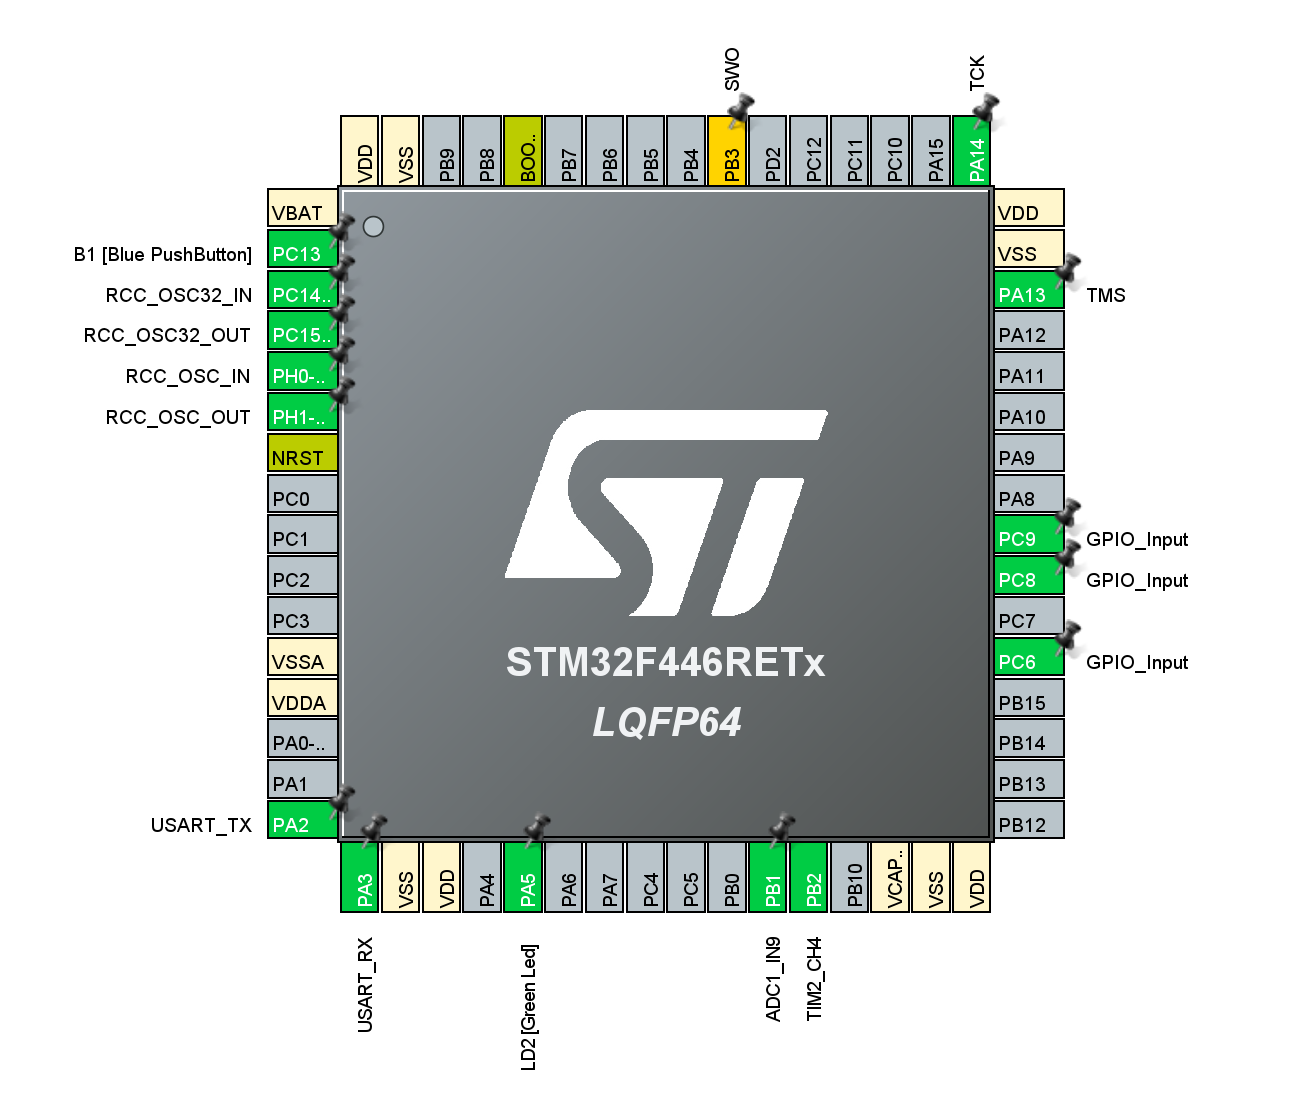
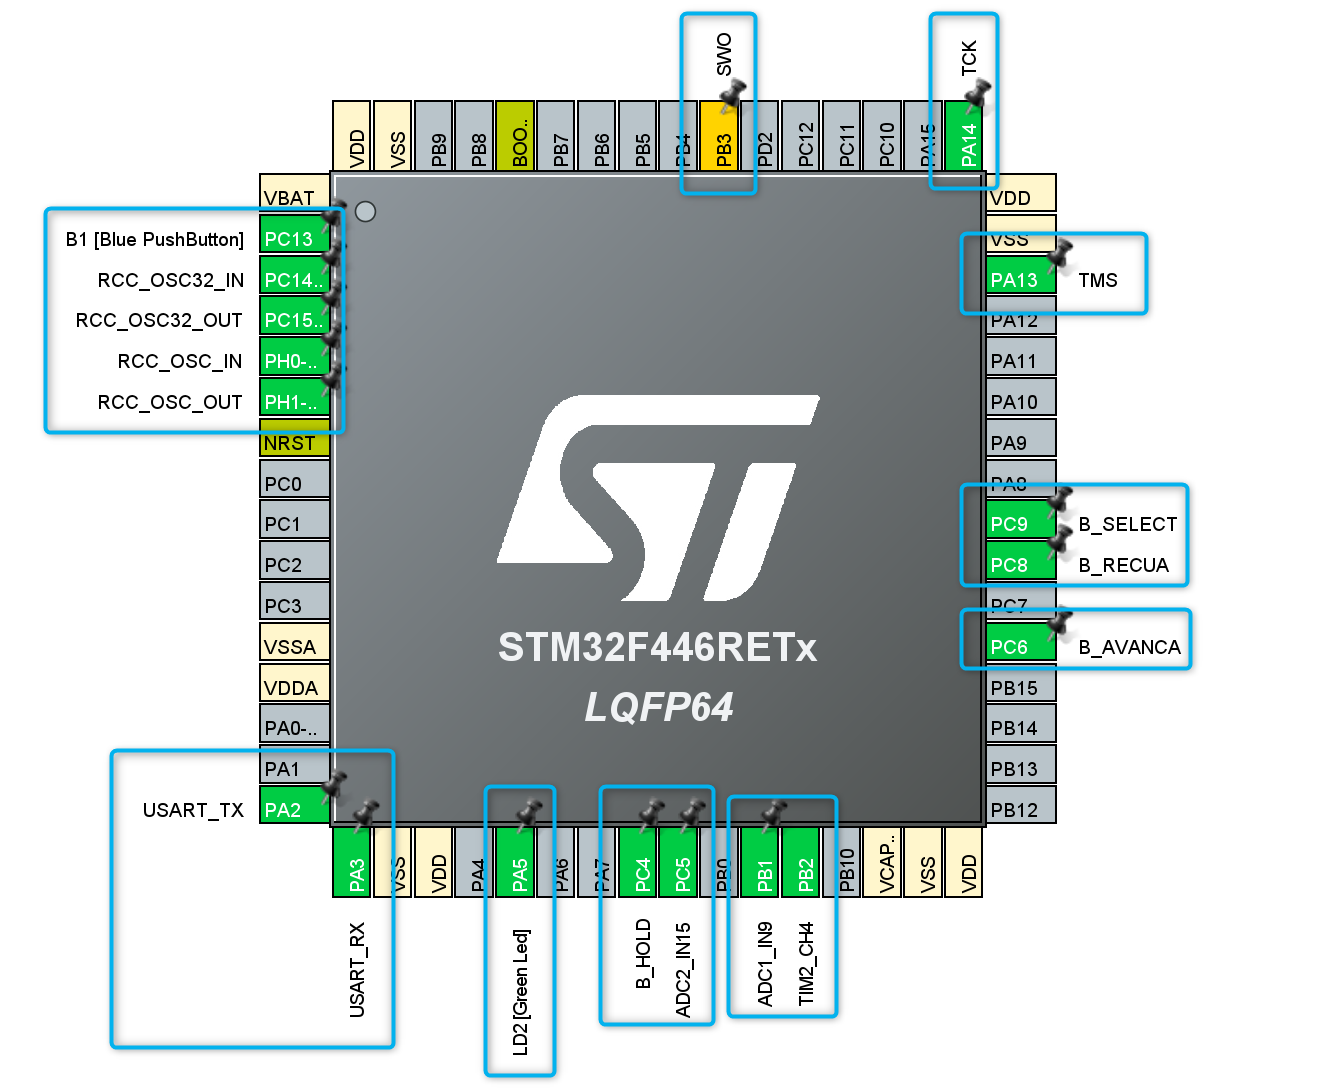
Atualização de Documentação do Projeto

Changed region(s): [[0.0309, 0.0, 0.9259, 0.9963], [0.3704, 0.3425, 0.6481, 0.685]]

diff --git a/Core/Src/readme.md b/Core/Src/readme.md
@@ -1,0 +1,134 @@
+### Sumário
+**[Considerações sobre os arquivos do Código Fonte](# Considerações sobre os arquivos do Código Fonte)**<br>
+**[Configuração do CubeMX](# Configuração do CubeMX)**<br>
+**[Constantes, variáveis Globais e Tipos Importantes](# Constantes, variáveis Globais e Tipos Importantes)**<br>
+**[Funções criadas do projeto](# Funções criadas do projeto)**<br>
+**[Funções criadas do projeto (todas no main.c)](# Funções criadas do projeto (todas no main.c))**<br>
+
+# Considerações sobre os arquivos do Código Fonte
+
+A seguir, falamos de algumas considerações importantes sobre os arquivos *.h* e *.c* que são importantes para o correto funcionamento do projeto.  
+
+## Bibliotecas Importantes
+
+Para o projeto, foram utilizadas as seguintes bibliotecas (já incluídas no código do GitHub):
+
+| ** Biblioteca **        | ** Utilização **                                              |
+| :---------------------: | :-----------------------------------------------------------: |
+| **fonts.h**             | Biblioteca de fontes para exibição de gráficos no display TFT |
+| **tft.h**               | Biblioteca para escrita de valores no display TFT             |
+| **user_setting.h**      | Biblioteca para escrita de valores no display TFT             |
+| **functions.h**         | Biblioteca para escrita de valores no display TFT             |
+| **arm_math.h**          | Para geração de séries de Fourier para análise de frequência  |
+| **arm_const_structs.h** | Para geração de séries de Fourier para análise de frequência  |
+| **math.h**              | Será necessário para trabalhar com valores numéricos          |
+| **<string.h>**          | Biblioteca para trabalhar com string                          |
+
+## Folhas Importantes
+
+Além disso, necessário também além das bibliotecas acima, os seguintes arquivos em *c* no projeto (eles já estão no projeto do Git, porém importante mencionar que precisam estar lá).
+
+| ** Arquivo**            | ** Utilização **                                                                                                             |
+| :---------------------: | :--------------------------------------------------------------------------------------------------------------------------: |
+| **fonts.c**             | Arquivo de fontes para exibição de gráficos no display TFT                                                                   |
+| **tft.c**               | Arquivo para escrita de valores no display TFT                                                                               |
+| **imagens.c**           | Arquivo que contém as imagens que serão exibidas na tela do Osciloscopio para referencia dos eixos                           |
+| **arm_fft_bin_data.c**  | Para geração de séries de Fourier para análise de frequência. Aqui fica o vetor que carrega as amostrar para exibição do FFT |
+
+# Configuração do CubeMX
+
+A configuração de pinos foi feita toda via CubeMX:
+
+![Configuração do CubeMX](Imagens/PrintIOC.png)
+
+Para isso foram utilizados os seguintes pinos e suas respectivas funções:
+
+| ** Pino ** | ** Port ** | ** Obrigatório/Opcional **| ** Utilização ** | ** Função Especial   ** | ** Comentários                                                                                                                              ** |
+| :--------: | :--------: |:------------------------: | :--------------: | :---------------------: | :--------------------------------------------------------------------------------------------------------------------------------------------: |  
+| PA2        | A          | Opcional                  | RS232 TX         | USART                   | Pode ser ativado caso queira fazer a leitura de algum resultado pela Serial (USART)                                                            |
+| PA3        | A          | Opcional                  | RS232 RX         | USART                   | Pode ser ativado caso queira fazer a leitura de algum resultado pela Serial (USART)                                                            |
+| PA5        | A          | Opcional                  | LED Interno      | N/A                     | Pode ser usado para verificar alguma questão ou retorno para controle interno da placa. Por padrão, a placa do display TFT encobre esse LED.   |
+| PA14       | A          | Obrigatório               |                  |                         |                                                                                                                                                |
+| PA13       | A          | Obrigatório               |                  |                         |                                                                                                                                                |
+| PB1        | B          | Obrigatório               | Modo DC          | ADC1 no Canal 9 (IN9)   | Utilização do Conversor AD para captura de tensões externas.                                                                                   |
+| PB2        | B          | Obrigatório               | Timer            | TIM2 no Canal 4         | Utilização do Timer2 no Canal 4 para geração de uma função PWM. Para a primeira versão do projeto estamos utilizando um sinal de PWM interno.  |
+| PB3        | B          | Obrigatório               |                  |                         |                                                                                                                                                |
+| PC4        | C          | Obrigatório               | Botão Trigger    | EXTI4                   | Para o botão Hold funcionar o congelamento da tela, fizemos para o projeto através do uso de interrupção                                       |
+| PC5        | C          | Obrigatório               | Escala V/DIV     | ADC2 no Canal 15 (IN15) | Usa para a escala V/DIV e sua exibição na tela do TFT                                                                                          |
+| PC6        | C          | Obrigatório               | Botão Avança     |                         |                                                                                                                                                |
+| PC8        | C          | Obrigatório               | Botão Recua      |                         |                                                                                                                                                |
+| PC9        | C          | Obrigatório               | Botão Seleciona  |                         |                                                                                                                                                |
+| PC13       | C          | Opcional                  | Botão Interno    | N/A                     | Pode ser usado para verificar alguma questão ou retorno para controle interno da placa. Por padrão, a placa do display TFT encobre esse botão. |
+| PC14       | C          | Obrigatório               | Clock Interno    | RCC                     | Utilização do Clock Interno do microcontrolador                                                                                                |
+| PC15       | C          | Obrigatório               | Clock Interno    | RCC                     | Utilização do Clock Interno do microcontrolador                                                                                                |
+| PH1        | N/A        | Obrigatório               | Clock Interno    | RCC                     | Utilização do Clock Interno do microcontrolador                                                                                                |
+| PH0        | N/A        | Obrigatório               | Clock Interno    | RCC                     | Utilização do Clock Interno do microcontrolador                                                                                                |
+
+# Constantes, variáveis Globais e Tipos Importantes
+
+## Constantes
+
+| ** Variável                   ** | ** Valor Padrão ** | ** Comentário                                                                ** |
+| :------------------------------: | :----------------: |:------------------------------------------------------------------------------: |  
+| ** DEBUG**                       | 0                  | Variável para auxiliar quando for necessário acionar algum debug                |
+| ** TEST_LENGTH_SAMPLES**         | 2048               | Usado pelas funções do FFT. Define a quantidade de amostras a capturar          |               
+| ** LCD_W**                       | 320                | Usado pelas funções do TFT. Define a largura do LCD em Pixels                   |
+| ** LCD_H**                       | 240                | Usado pelas funções do TFT. Define a altura do LCD em Pixels                    |
+| ** TIME_MAX**                    | 5                  |                                                                                 |
+| ** SAMPLES**                     | 512                | Usado pelo FFT. Com isso, utilizamos para a exibição dos grafico do FFT na tela |
+| ** FFT_SIZE SAMPLES / 2**        |                    | Usado pelo FFT. Com isso, utilizamos para a exibição dos grafico do FFT na tela |
+| ** DC_GND**                      | 0                  | Para referenciar os estados da Máquina de Estado do Menu do FFT                 |
+| ** FFT**                         | 1                  | Para referenciar os estados da Máquina de Estado do Menu do FFT                 |
+| ** T_DIV**                       | 2                  | Para referenciar os estados da Máquina de Estado do Menu do FFT                 |
+| ** HOLD_DC**                     | 3                  | Para referenciar os estados da Máquina de Estado do Menu do FFT                 |
+| ** HOLD_FFT**                    | 4                  | Para referenciar os estados da Máquina de Estado do Menu do FFT                 |
+| ** HOLD_TDIV**                   | 5                  | Para referenciar os estados da Máquina de Estado do Menu do FFT                 |
+| ** DC_GND_SCREEN**               | 1                  | Para referenciar os estados da Máquina de Estado do Menu do FFT                 |
+| ** FFT_SCREEN**                  | 2                  | Para referenciar os estados da Máquina de Estado do Menu do FFT                 |
+| ** FREQ_SCREEN**                 | 3                  | Para referenciar os estados da Máquina de Estado do Menu do FFT                 |
+| ** HOLD_SCREEN**                 | 4                  | Para referenciar os estados da Máquina de Estado do Menu do FFT                 |
+| ** osciloscopio_320x240[76800]** | N/A                | Para exibição dos gráficos na tela do FFT                                       |
+| ** telaosc_320x240[76800]**      | N/A                | Para exibição dos gráficos na tela do FFT                                       |
+ 
+## Variáveis Globais
+
+
+
+## Tipos Importantes
+
+### State
+
+Tipo que irá definir a estrutura da máquina de estado dos menus do FFT
+
+```c
+
+struct State {
+	uint16_t Screen;		//Saída para o estado
+	uint16_t wait;		//Tempo de espera do estado
+	uint8_t next[8];	//Vetor de proximos estados
+};
+
+```
+
+### TipoS
+
+Define a estrutura para o struct tipoS onde fica a definição completa da máquina de estado que vamos usar para navegar pelos menus e fazer as funções do osciloscopio.
+
+```c
+
+typedef const struct State tipoS;
+
+//Estrutura de dados que corresponde ao diagrama de transição de estado
+tipoS Fsm[6] = {
+		[DC_GND] = {DC_GND_SCREEN,0,{DC_GND,HOLD_DC,FFT,HOLD_DC,T_DIV,HOLD_DC,DC_GND,HOLD_DC}},
+		[FFT] = {FFT_SCREEN,0,{FFT,HOLD_FFT,T_DIV,HOLD_FFT,DC_GND,HOLD_FFT,FFT,HOLD_FFT}},
+		[T_DIV] = {FREQ_SCREEN,0,{T_DIV,HOLD_TDIV,DC_GND,HOLD_TDIV,FFT,HOLD_TDIV,T_DIV,HOLD_TDIV}},
+		[HOLD_DC] = {HOLD_SCREEN,0,{DC_GND,HOLD_DC,DC_GND,HOLD_DC,DC_GND,HOLD_DC,DC_GND,HOLD_DC}},
+		[HOLD_FFT] = {HOLD_SCREEN,0,{FFT,HOLD_FFT,FFT,HOLD_FFT,FFT,HOLD_FFT,FFT,HOLD_FFT}},
+		[HOLD_TDIV] = {HOLD_SCREEN,0,{T_DIV,HOLD_TDIV,T_DIV,HOLD_TDIV,T_DIV,HOLD_TDIV,T_DIV,HOLD_TDIV}},
+};
+
+```
+
+# Funções criadas do projeto (todas no main.c)
+

diff --git a/readme.md b/readme.md
@@ -1,22 +1,30 @@
-# Osciloscopio
+# Osciloscopio - STM32
 
-Projeto realizado pelos alunos do curso de Sistemas Embarcados do Senai para a disciplina de Projeto de Sistemas Embarcados
+Um pequeno, simples, porém singelo osciloscopio.
+
+### Sumário
+**[Introdução](# Introdução)**<br>
+**[Funcionalidades atual e suporte a leituras](# Funcionalidades atual e suporte a leituras)**<br>
+**[Pre Requisitos para o projeto](# Pre Requisitos para o projeto)**<br>
+**[Erros Conhecidos](# Erros Conhecidos)**<br>
+**[Créditos](# Créditos)**<br>
 
 # Introdução
 
-Esse projeto foi feito utilizando para processadores ARM e no caso do projeto, foi utilizado um ARM M4. Para o projeto específico, foi utlizado uma das placas Nucelo da ST a **NUCLEO-F446RE** [Link no Site do Fabricante](https://www.st.com/en/evaluation-tools/nucleo-f446re.html)
+Projeto realizado pelos alunos do curso de *Sistemas Embarcados do Senai (Turma 8)* para a disciplina de *Projeto de Sistemas Embarcados*. Esse projeto foi feito para processadores ARM e no caso do projeto, foi utilizado um ARM M4. Para o projeto específico, foi utilizado uma das placas Nucelo da ST a **NUCLEO-F446RE** [Link no Site do Fabricante](https://www.st.com/en/evaluation-tools/nucleo-f446re.html)
+
+# Funcionalidades atual e suporte a leituras
+
+1. Leitura de tensão DC até 24v
+2. Geração de Frequencia Dominante a partir do uso da biblioteca DSP da Arm
+3. Função "Trigger" para congelar a leitura em Tela
+4. Ajuste de escala de leitura
+5. Geração de um GND para referência
+6. Geração de frequencia de 500hz e 1Khz
 
 # Pre Requisitos para o projeto
 
-## Pre Requisitos para o projeto - Software
-
-- **fonts.h:** Biblioteca de fontes para exibição de gráficos no display TFT
-- **tft.h:** Biblioteca para escrita de valores no display TFT
-- **user_setting.h:** Biblioteca para escrita de valores no display TFT
-- **functions.h:** Biblioteca para escrita de valores no display TFT
-- **arm_math.h:** Para geração de séries de Fourier para análise de frequência
-- **arm_const_structs.h:** Para geração de séries de Fourier para análise de frequência
-- **math.h:** Será necessário para trabalhar com valores numéricos
+Abaixo falamos um pouco do que você vai precisar de Hardware e software para rodar esse projeto.
 
 ## Pre Requisitos para o projeto - Hardware
 
@@ -24,16 +32,43 @@ Esse projeto foi feito utilizando para processadores ARM e no caso do projeto, f
 
 ![Placa Nucleo F446RE](Imagens/FotoNucleoF446RE.jpeg)
 
+No arquivo **Readme.md** ([Disponível aqui](https://github.com/caiotmello/Osciloscopio/tree/master/Core/Src)) na pasta **main** você encontra as informações como as portas utilizadas, configuração usada no arquivo **OSCILOSCOPIO.ioc** e outras definições importantes sobre como configurar sua interface. Do jeito que o projeto está no GIT, a configuração já foi feita e não precisa ser refeita, porém caso por alguma questão de importação não ocorra o mapeamento correto das portas, vamos discutir as principais configurações do CubeMX nesse arquivo também. 
+
 - **Display TFT 2.4":** Display utlizado para exibição das funções
 
 ![Display TFT 2.4"](Imagens/NucleocomDisplayMontado.jpeg)
 
 - **Jumper:** Utilizado para ligação dos botões das funções do osciloscopio ao microcontrolador.
+- **3 botões PCB:** Botões PCB criados para navegar nas funções do Menu do Osciloscopio.
+- **Protoboard**: Conectar os jumpers, botões e pontas da prova a placa.
+- **Resistores**: 
+- **Cabo USB**: Para carregar o programa e conectar a placa ao computador. Para referencia, o cabo USB deve ter em uma ponta uma saída do tipo *USB-A* e na outra uma saída do tipo *MINI-USB* (Esta é similar ao cabo de carga do controle do PS3). **Importante mencionar que ao adquirir a placa da ST, a mesma não vem com esse cabo, ele deve ser adquirido a parte.** Além disso, também é possível carregar a placa da ST utilizando o ST-LINK caso você tenha, porém para esse projeto não utilizamos o ST-LINK.
 
+## Pre Requisitos para o projeto - Software
 
-- **3 botões PCB:** Botões PCB criados para 
+- Para compilação de código, foi utilizado o **STM32CubeIDE** que pode ser baixado no site da ST [Link Oficial](https://www.st.com/en/development-tools/stm32cubeide.html#overview). Navegue até o final da página, selecione a versão para o seu sistema operacional e clique no botão "Get Software" respectivo para sua versão. **Esse programa foi testado para as versões 1.3.0 e 1.5.0**. O CubeIDE é baseado na IDE Eclipse, portanto, permite integração com as outras ferramentas do Eclips e Plugins, como Git.
+- Baixar a biblioteca de DSP da Arm que pode ser encontrada em [Aqui](https://www.keil.com/pack/doc/CMSIS/DSP/html/index.html) 
 
-Protoboard
+# Erros Conhecidos
 
+## Erro da Biblioteca DSP da Arm
 
+Da forma que o projeto está atualmente, ele referencia a biblioteca de DSP da Arm de forma local, para isso, antes de compilar o projeto ajustar no caminho no Eclipse e referenciar a pasta local no seu computador para poder compilar. Seguir os passos a seguir:
 
+1. Para isso, clicar com botão direito no nome do Projeto no Eclipse e clicar em "Properties"
+2. Depois, navegar no seguinte caminho **C/C++ Build -> Settings -> MCU GCC Linker -> Library Search Path (-L)**
+3. O caminho a alterar deve ficar da seguinte forma: 
+
+![Exemplo de Alteração do Caminho da Biblioteca DSP](Imagens/Lib Math Arm.png)
+
+4. Resolvido isso, a compilação ocorre com sucesso!
+
+![Compilação com sucesso](Imagens/Compilação com Sucesso.png)
+
+## Erro da pasta CMSIS sendo gerada automaticamente
+
+No meu caso, devido a forma como eu configurei a biblioteca da ARM de DSP, ele gerava uma pasta CMSIS automaticamente toda vez que eu faço uma alteração no arquivo *ioc* de configuração. Para resolver isso, só remover a pasta CMSIS gerada, e a compilação ocorre normalmente. Existe uma opção que também pode ser de excluir essa pasta toda vez que for fazer o Build do projeto.
+
+# Créditos
+
+Creditos para o time que ajudou a fazer esse projeto realidade! Caio, Willian, Renan, Luiz, Alberto, Rafael, Andre e ao nosso professor Leandro por toda ajuda!!
